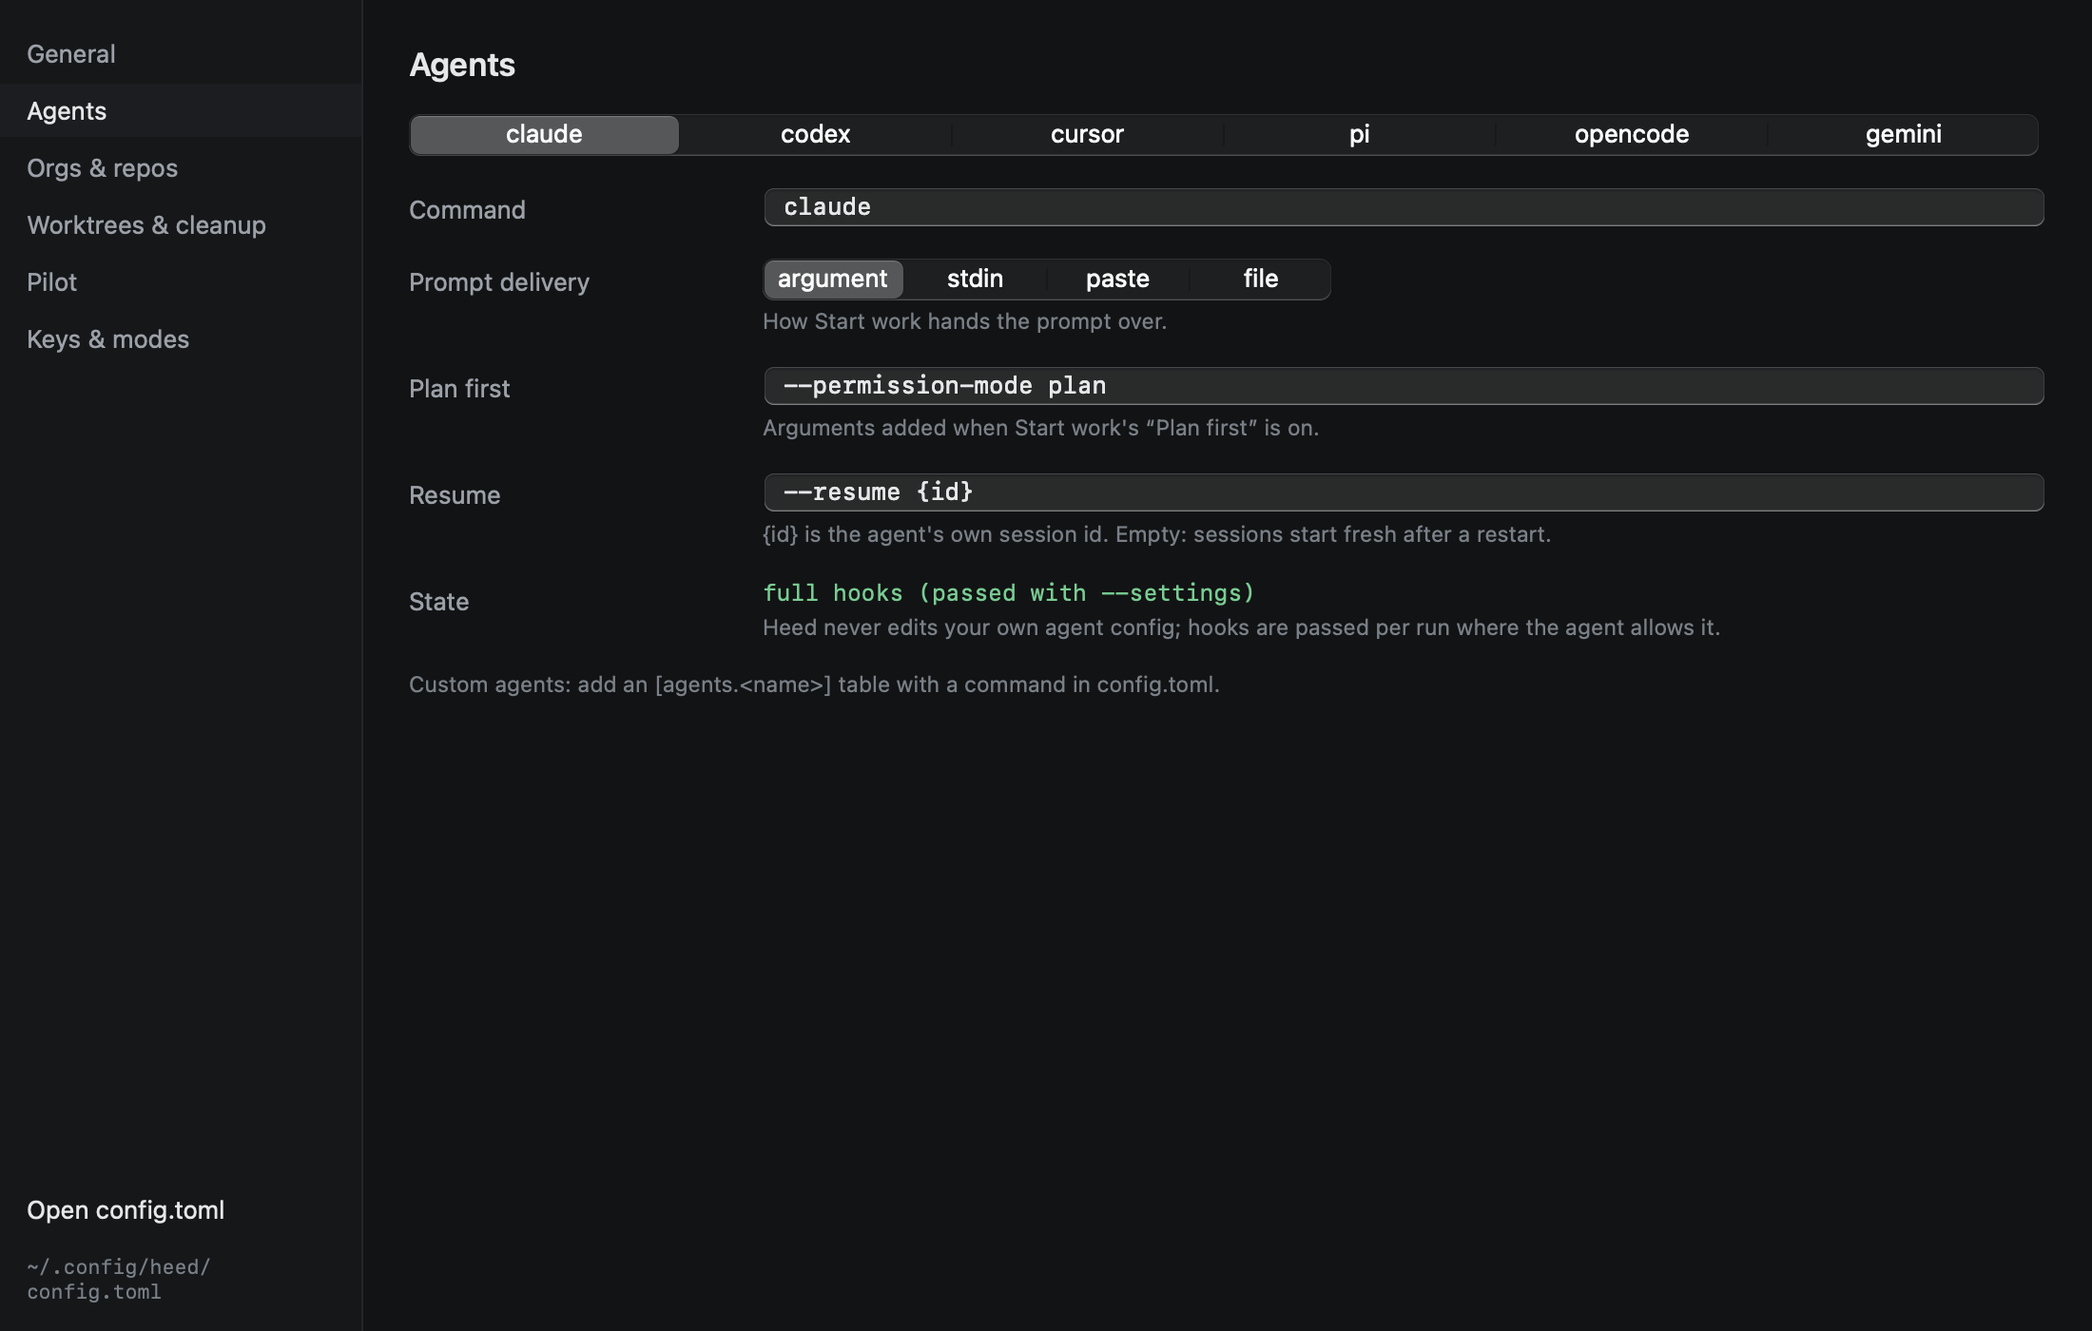
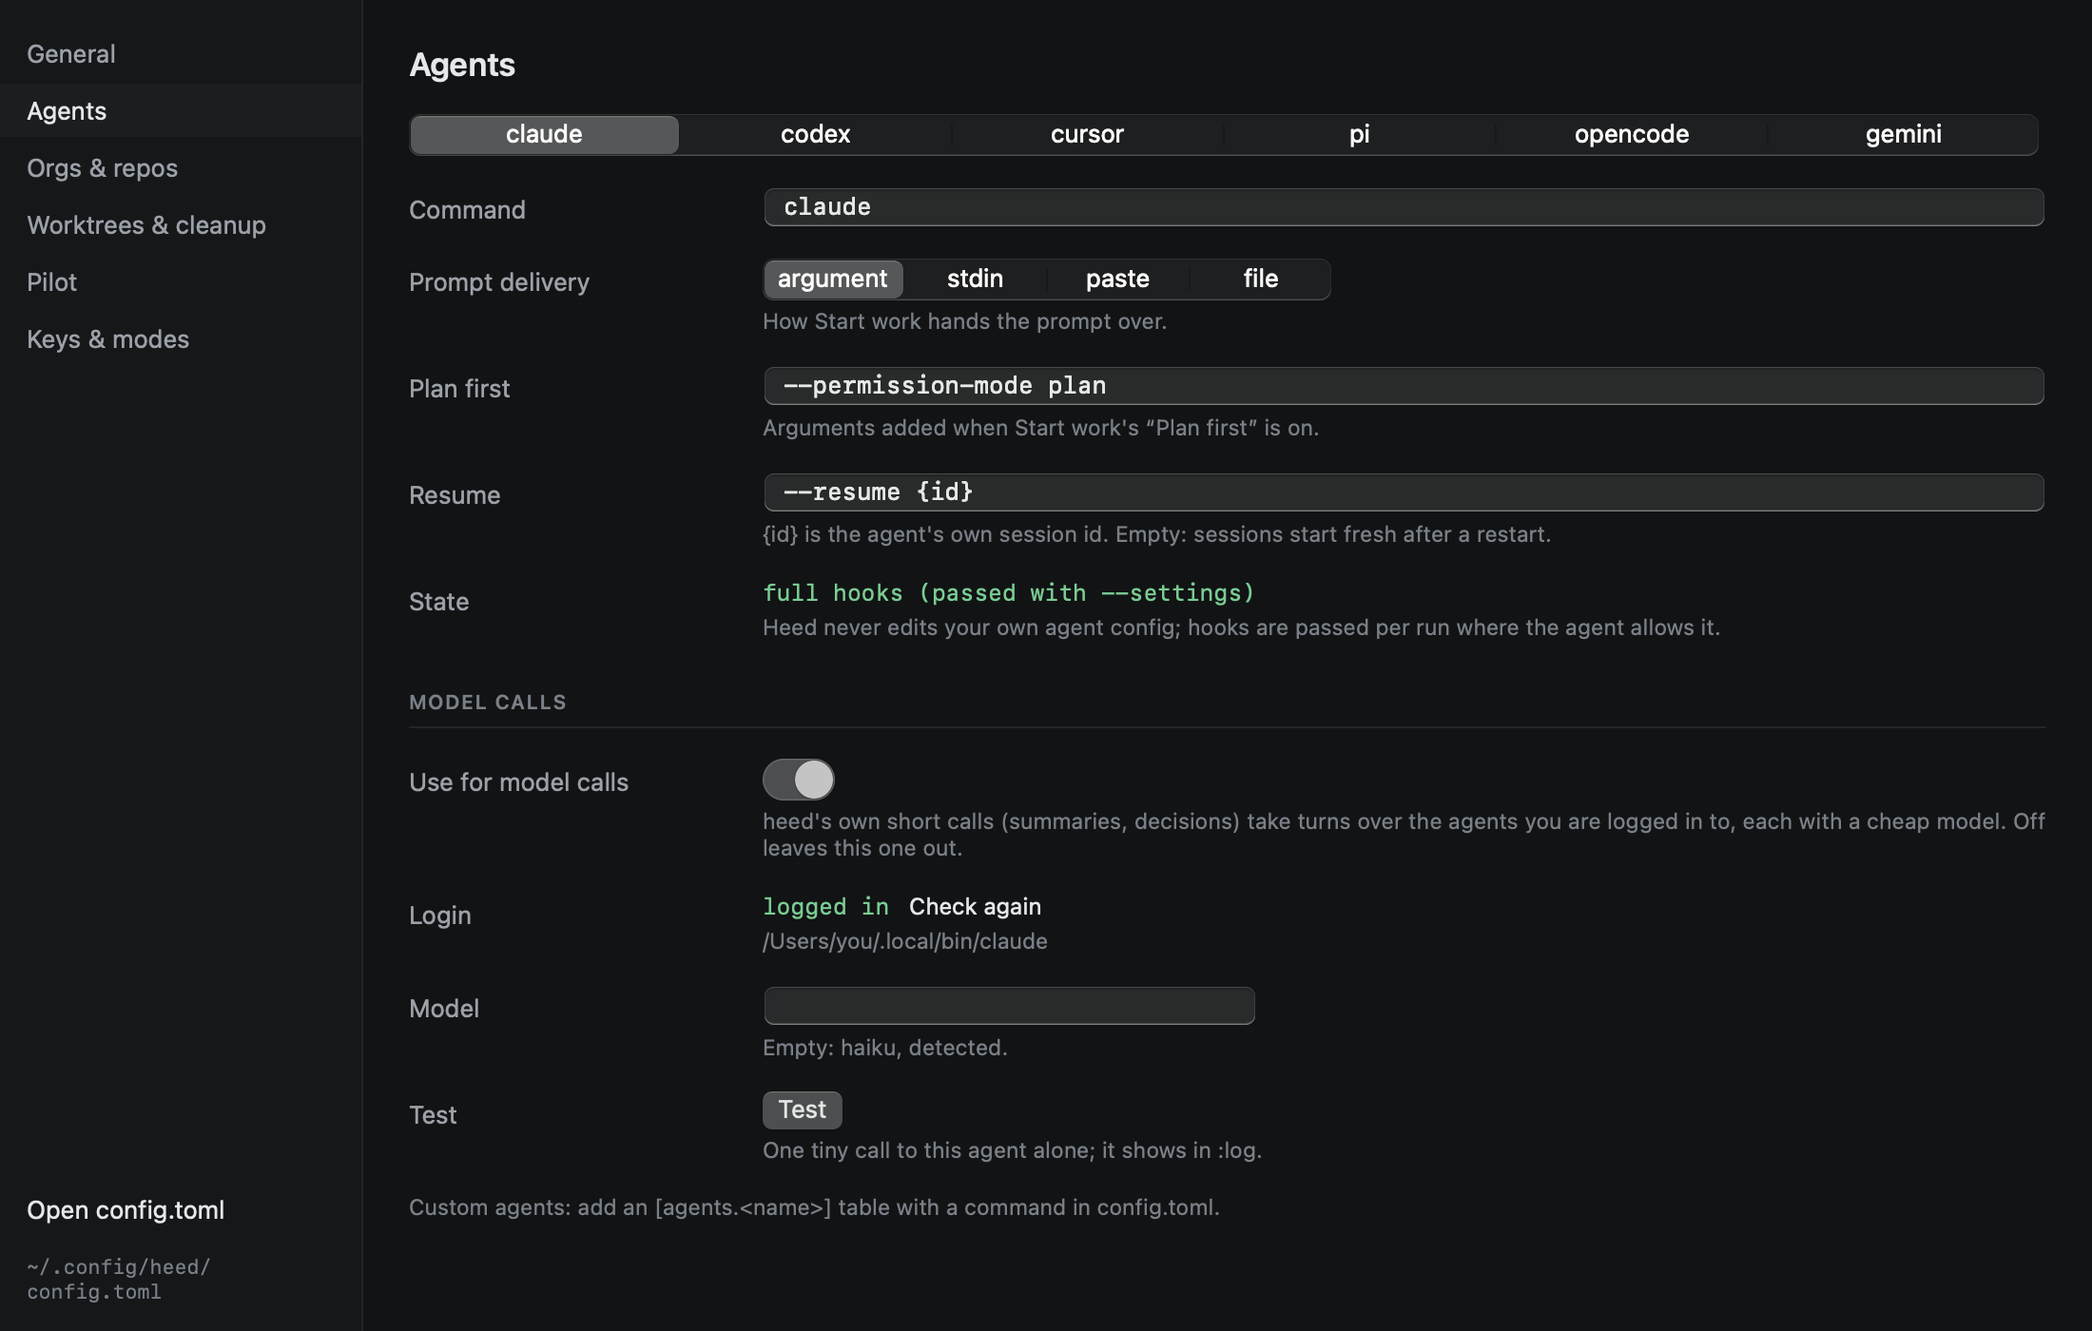
Settings › Agents shows each agent's part in heed's model calls, with a Test (#111)
Stacked on #108 (the runner). The second of three PRs for plan 2.

**What changed**
- Settings › Agents adds a **Model calls** group for each built-in
agent:
- **Use for model calls**: a toggle that writes `[agents.<name>] llm`.
It is disabled while `[llm] enabled = false`.
- **Login**: what detection found (logged in, not logged in, not found,
or installed with no login check for gemini), with the path and a
**Check again** link. When the command is not found, the note says heed
runs it without your shell, so an alias or shell function does not
count, and how to point heed at it.
- **Model**: writes `llm_model`. The hint says what empty means (`haiku,
detected`, or the agent's own default).
- **Test**: one tiny call to that agent alone, interactive and never
cached. It shows the answer, model, time and cost, or the error, and
lands in `:log` (caller `settings.test`).
  - Custom agents get a line saying they take no part.
- `AppModel+LLM.swift` holds the glue. The app keeps one `LLMRunner`:
- It is configured from config.toml on every change, and detection is
refreshed with it.
- On launch it is seeded with today's spend from the call log's `llm`
rows.
- Features call `runLLM`, which first passes the agents rate limited in
a session to the runner. `LLMRunner.limits(of:)` keeps the latest known
reset per agent, or none when any session did not say.
- Fixtures never detect or call anything. They show made-up login
[…]

diff --git a/Sources/HeedApp/Views/SettingsView.swift b/Sources/HeedApp/Views/SettingsView.swift
@@ -433,6 +433,7 @@ private struct AgentSettings: View {
                 Field(label: "State", detail: integration(agent.name)) {
                     Text(stateSource(agent.name)).font(Theme.mono(12)).foregroundStyle(Theme.done)
                 }
+                ModelCallSettings(agent: agent)
             }
             Text("Custom agents: add an [agents.<name>] table with a command in config.toml.")
                 .font(Theme.ui(11.5))
@@ -453,6 +454,122 @@ private struct AgentSettings: View {
 
     private func integration(_: String) -> String {
         "Heed never edits your own agent config; hooks are passed per run where the agent allows it."
+    }
+}
+
+/// One agent's part in heed's own model calls (`[llm]`): on or off, its model, what detection found, and a Test.
+private struct ModelCallSettings: View {
+    @Environment(AppModel.self) private var model
+    let agent: AgentProfile
+
+    var body: some View {
+        GroupLabel(title: "Model calls")
+        if LLMDialect.of(agent) == nil {
+            Text("Custom agents take no part in heed's own model calls (summaries, decisions).")
+                .font(Theme.ui(11.5))
+                .foregroundStyle(Theme.fg3)
+        } else {
+            let status = model.llmStatuses.first { $0.name == agent.name }
+            let settings = model.config.llm
+            Field(
+                label: "Use for model calls",
+                detail: "heed's own short calls (summaries, decisions) take turns over the agents you are logged in "
+                    + "to, each with a cheap model. Off leaves this one out."
+            ) {
+                Toggle("", isOn: Binding(
+                    get: { settings.isEnabled(agent.name) },
+                    set: { model.setConfig(["agents", agent.name, "llm"], .bool($0)) }
+                ))
+                .toggleStyle(.switch)
+                .labelsHidden()
+                .disabled(!settings.enabled)
+            }
+            Field(label: "Login", detail: loginDetail(status)) {
+                HStack(spacing: 10) {
+                    Text(loginText(status)).font(Theme.mono(12)).foregroundStyle(loginColor(status))
+                    Button("Check again") { Task { await model.refreshLLMStatuses(force: true) } }
+                        .buttonStyle(.link)
+                        .font(Theme.ui(12))
+                }
+            }
+            Field(
+                label: "Model",
+                detail: "Empty: \(status?.detectedModel.map { "\($0), detected" } ?? "the agent's own default")."
+            ) {
+                ConfigTextField(path: ["agents", agent.name, "llm_model"], value: settings.model(for: agent.name) ?? "")
+                    .frame(width: 260)
+            }
+            Field(label: "Test", detail: "One tiny call to this agent alone; it shows in :log.") {
+                TestResult(agent: agent.name)
+            }
+            if !settings.enabled {
+                Text("[llm] enabled = false: heed makes no model calls at all.")
+                    .font(Theme.ui(11.5))
+                    .foregroundStyle(Theme.block)
+            }
+        }
+    }
+
+    private func loginText(_ status: LLMAgentStatus?) -> String {
+        switch status?.login {
+        case .loggedIn: "logged in"
+        case .loggedOut: "not logged in"
+        case .unknown: "installed (no login check: a failed call says)"
+        case .notInstalled: "\(agent.command.split(separator: " ").first.map(String.init) ?? agent.command) not found"
+        case nil: "checking…"
+        }
+    }
+
+    private func loginColor(_ status: LLMAgentStatus?) -> Color {
+        switch status?.login {
+        case .loggedIn: Theme.done
+        case .unknown: Theme.fg2
+        case .loggedOut, .notInstalled: Theme.block
+        case nil: Theme.fg3
+        }
+    }
+
+    private func loginDetail(_ status: LLMAgentStatus?) -> String {
+        switch status?.login {
+        case .notInstalled:
+            "heed runs it without your shell, so an alias or shell function does not count: set Command to its path, "
+                + "or add its folder to [tools] path."
+        case .loggedOut: "Log in with the agent itself; heed only uses logins you already have."
+        default: status?.path.map(Paths.abbreviate) ?? ""
+        }
+    }
+}
+
+/// The Test button, and how the last test went.
+private struct TestResult: View {
+    @Environment(AppModel.self) private var model
+    let agent: String
+
+    var body: some View {
+        let test = model.llmTests[agent]
+        HStack(alignment: .firstTextBaseline, spacing: 10) {
+            Button(test?.running == true ? "Testing…" : "Test") { model.testLLM(agent: agent) }
+                .disabled(test?.running == true)
+            if let test, !test.running {
+                if let error = test.error {
+                    Text(error).font(Theme.ui(12)).foregroundStyle(Theme.err).fixedSize(
+                        horizontal: false,
+                        vertical: true
+                    )
+                } else {
+                    Text(summary(test)).font(Theme.mono(12)).foregroundStyle(Theme.fg)
+                }
+            }
+        }
+    }
+
+    private func summary(_ test: LLMTest) -> String {
+        var parts = ["“\(test.answer ?? "")”"]
+        if let model = test.model { parts.append(model) }
+        if let seconds = test.seconds { parts.append(String(format: "%.1fs", seconds)) }
+        // A test costs a fraction of a cent: shown to four places, not as <$0.01.
+        if let cost = test.cost { parts.append(cost < 0.01 ? String(format: "$%.4f", cost) : AgentUsage.dollars(cost)) }
+        return parts.joined(separator: " · ")
     }
 }
 

diff --git a/Sources/HeedApp/Model/AppModel+LLM.swift b/Sources/HeedApp/Model/AppModel+LLM.swift
@@ -1,0 +1,103 @@
+import Foundation
+import HeedCore
+
+/// How Settings' Test of one agent went.
+struct LLMTest: Equatable {
+    var running = false
+    var answer: String?
+    var error: String?
+    var model: String?
+    var seconds: Double?
+    var cost: Double?
+}
+
+/// heed's own model calls (`[llm]`, `LLMRunner`): configured from config.toml, told which agents are rate limited in
+/// a session, and seeded with today's spend from the call log. Features call `runLLM`, never the runner directly.
+extension AppModel {
+    /// The runner follows the config; Settings' detected states are refreshed with it.
+    func configureLLM() {
+        guard !isFixture else { return }
+        let agents = config.work.agents
+        let llmSettings = config.llm
+        let prices = config.usage.prices
+        let runner = llm
+        Task {
+            await runner.configure(agents: agents, settings: llmSettings, prices: prices)
+            await refreshLLMStatuses()
+        }
+    }
+
+    /// On launch: today's spend from the call log, so a restart does not reset the daily cap. Fixtures never detect or
+    /// call anything (their login states are made up, `fixtureLLMStatuses`).
+    func startLLM() async {
+        guard !isFixture else { return }
+        await llm.configure(agents: config.work.agents, settings: config.llm, prices: config.usage.prices)
+        if let log = CallLog.active {
+            await log.flush()
+            var filter = CallFilter()
+            filter.kinds = [.llm]
+            filter.limit = 100_000
+            let calls = await (try? log.store.calls(filter)) ?? []
+            await llm.seedSpend(from: calls)
+        }
+    }
+
+    /// Detects again (`force`: even what was detected a moment ago).
+    func refreshLLMStatuses(force: Bool = false) async {
+        guard !isFixture else { return }
+        llmStatuses = await llm.statuses(force: force)
+    }
+
+    /// A model call, with the sessions' rate limits up to date.
+    func runLLM(_ request: LLMRequest) async throws -> LLMResponse {
+        await llm.setLimited(LLMRunner.limits(of: sessions))
+        return try await llm.run(request)
+    }
+
+    /// Settings' Test: one tiny call to `agent` alone, never cached, shown with its answer and timing.
+    func testLLM(agent: String) {
+        guard !isFixture, llmTests[agent]?.running != true else { return }
+        llmTests[agent] = LLMTest(running: true)
+        let request = LLMRequest(
+            call: LLMCall(
+                system: "You check that a connection works. Reply in at most five words.",
+                prompt: "Say hello."
+            ),
+            priority: .interactive, caller: "settings.test", operation: "test", agent: agent, cached: false
+        )
+        Task {
+            do {
+                let response = try await runLLM(request)
+                llmTests[agent] = LLMTest(
+                    answer: response.text.trimmingCharacters(in: .whitespacesAndNewlines), model: response.model,
+                    seconds: response.duration, cost: response.cost
+                )
+            } catch {
+                llmTests[agent] = LLMTest(error: "\(error)")
+            }
+            await refreshLLMStatuses()
+        }
+    }
+
+    /// What the fake world's Settings shows: one agent of each login state.
+    static let fixtureLLMStatuses: [LLMAgentStatus] = {
+        let at = Date(timeIntervalSince1970: 0)
+        func status(
+            _ name: String,
+            _ command: String,
+            _ path: String?,
+            _ login: LLMAgentStatus.Login,
+            _ model: String?
+        ) -> LLMAgentStatus {
+            LLMAgentStatus(name: name, command: command, path: path, login: login, detectedModel: model, checkedAt: at)
+        }
+        return [
+            status("claude", "claude", "/Users/you/.local/bin/claude", .loggedIn, "haiku"),
+            status("codex", "codex", "/opt/homebrew/bin/codex", .loggedIn, "fast-model"),
+            status("cursor", "cursor-agent", nil, .notInstalled, nil),
+            status("pi", "pi", "/opt/homebrew/bin/pi", .loggedOut, nil),
+            status("opencode", "opencode", "/opt/homebrew/bin/opencode", .loggedOut, nil),
+            status("gemini", "gemini", nil, .notInstalled, nil),
+        ]
+    }()
+}

diff --git a/Sources/HeedApp/Model/AppModel.swift b/Sources/HeedApp/Model/AppModel.swift
@@ -86,6 +86,12 @@ final class AppModel {
     private(set) var config = HeedConfig.default
     /// What is wrong with config.toml, if anything; the last good config stays in use.
     private(set) var configProblems: [ConfigProblem] = []
+    /// heed's own model calls (`[llm]`): every call goes through `runLLM` (AppModel+LLM).
+    let llm = LLMRunner()
+    /// What detection found per agent, for Settings › Agents.
+    var llmStatuses: [LLMAgentStatus] = []
+    /// Settings' Test per agent: running, or how the last one ended.
+    var llmTests: [String: LLMTest] = [:]
     let configFile = ConfigLoader.defaultFile()
     private var configWatcher: ConfigWatcher?
     /// Last commit date per worktree path, gathered with the repo refresh (sweep activity).
@@ -285,6 +291,7 @@ final class AppModel {
             tailnet = Fixtures.tailnet
             tailscalePath = "/Applications/Tailscale.app/Contents/MacOS/Tailscale"
             issueInfo = Fixtures.issueInfo
+            llmStatuses = Self.fixtureLLMStatuses
             for (id, live) in Fixtures.subagents {
                 setSubagents(Subagents(live), of: id)
             }
@@ -308,6 +315,7 @@ final class AppModel {
         startConfig()
         Notifier.shared.attach(self)
         if !isFixture { await detectTools() }
+        await startLLM()
         startHooks()
         let integration = integration
         Task.detached(priority: .utility) {
@@ -736,6 +744,7 @@ final class AppModel {
         if issuesChanged, !isFixture, github.syncedAt != nil { Task { await syncGitHub(parts: [.issues]) } }
         // PRs nobody set by hand follow the new pilot settings.
         if pilotChanged { settlePilots() }
+        configureLLM()
     }
 
     /// `[tools] zmx` (a path, or a name on the search path), else zmx on the search path.

diff --git a/Tests/HeedCoreTests/LLMRunnerTests.swift b/Tests/HeedCoreTests/LLMRunnerTests.swift
@@ -193,6 +193,26 @@ struct LLMRunnerTests {
         #expect(try await runner.run(ask("e")).agent == "claude")
     }
 
+    @Test func sessionsSayWhichAgentsAreLimited() {
+        func session(_ id: String, _ agent: String, _ state: AgentState, resets: Date?) -> Session {
+            var session = Session(
+                id: id, title: id, repos: [], branch: id, agent: agent, state: ObservedState(state)
+            )
+            session.usage = AgentUsage(rateLimitResetsAt: resets)
+            return session
+        }
+        let soon = Self.start.addingTimeInterval(600)
+        let later = Self.start.addingTimeInterval(3600)
+        let limits = LLMRunner.limits(of: [
+            session("a", "claude", .limited, resets: soon), session("b", "claude", .limited, resets: later),
+            session("c", "codex", .limited, resets: later), session("d", "codex", .limited, resets: nil),
+            session("e", "pi", .working, resets: later), session("f", "gemini", .limited, resets: nil),
+        ])
+        #expect(limits.count == 3)
+        #expect(limits["claude"] == .some(later))
+        #expect(limits["codex"] == .some(nil) && limits["gemini"] == .some(nil) && limits["pi"] == nil)
+    }
+
     @Test func aFailedAgentBacksOffAndTheCallMovesOn() async throws {
         let fakes = try [FakeCLI(), FakeCLI()]
         try fakes[0].set("mode", "fail")

diff --git a/Sources/HeedCore/LLM/LLMRunner.swift b/Sources/HeedCore/LLM/LLMRunner.swift
@@ -190,6 +190,25 @@ public actor LLMRunner {
         limited = agents
     }
 
+    /// The agents rate limited in one of `sessions`, with when the limit lifts: the latest reset known, nil when any
+    /// of them did not say.
+    public static func limits(of sessions: [Session]) -> [String: Date?] {
+        var limits: [String: Date?] = [:]
+        for session in sessions where session.state.state == .limited {
+            let resets = session.usage?.rateLimitResetsAt
+            if let known = limits[session.agent] {
+                guard let current = known, let resets else {
+                    limits[session.agent] = Date?.none
+                    continue
+                }
+                limits[session.agent] = max(current, resets)
+            } else {
+                limits[session.agent] = resets
+            }
+        }
+        return limits
+    }
+
     /// Today's spend so far from the call log's `llm` rows, so a restart does not reset the daily cap.
     public func seedSpend(from calls: [LoggedCall]) {
         rollDay()

diff --git a/Sources/HeedApp/Shots/Shots.swift b/Sources/HeedApp/Shots/Shots.swift
@@ -207,6 +207,13 @@ enum Shots {
 
     static let agents: [Shot] = [
         Shot(id: "agents/guessed", size: short, keys: "2j", crop: .sidebar),
+        // Settings › Agents: claude's part in heed's model calls, after a Test.
+        Shot(
+            id: "agents/model-calls", subject: .settings(.agents), size: CGSize(width: 1000, height: 820),
+            prepare: { model in
+                model.llmTests["claude"] = LLMTest(answer: "Hello!", model: "claude-haiku", seconds: 2.9, cost: 0.00026)
+            }
+        ),
     ]
 
     static let hosts: [Shot] = [

diff --git a/docs/agents/model-calls.md b/docs/agents/model-calls.md
@@ -49,6 +49,14 @@ run at all writes a row saying why, so background work that waits on the cap sho
 
 ## Settings
 
+Settings › Agents shows, per agent, whether it takes part, whether it is installed and logged in, the model it uses
+(empty: the cheap one detected), and a **Test** button: one tiny call to that agent alone, with its answer, how long
+it took and what it cost. The test shows in `:log` like any other call.
+
+![Settings › Agents: claude's part in model calls, after a test](../images/shots/agents/model-calls.png)
+
+The same in config.toml:
+
 ```toml
 [llm]
 enabled = true          # false: Heed makes no model calls at all
